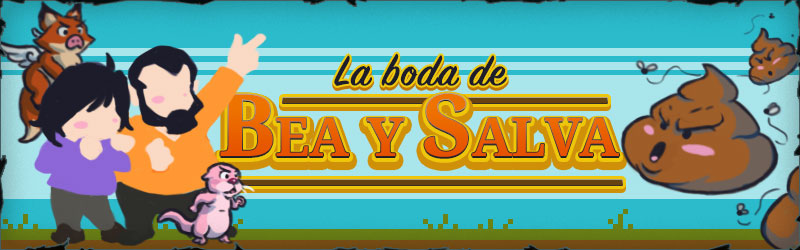
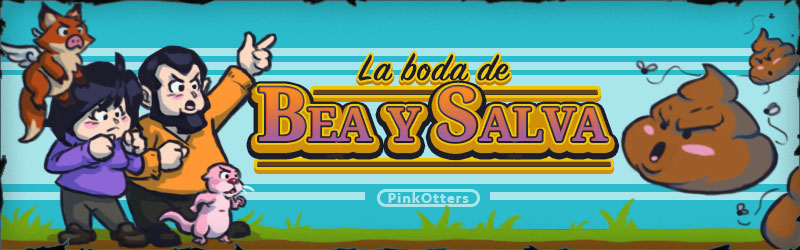
Graphics and texts iteration

diff --git a/index.html b/index.html
@@ -35,7 +35,7 @@
             <p class="weekday">SÁBADO</p>
             <p class="day">30 DE MARZO</p>
             <hr/>
-            <p class="hour">12:00 h</p>
+            <p class="hour">13:00 h</p>
           </section>
           <section class="card" data-aos="slide-left" data-aos-duration="600">
             <h2>Para los amigos</h2>
@@ -57,13 +57,14 @@
           </section>
         </section>
       </section>
+        <img class="cheat-sheet" src="imgs/cheatcode.png">
       <section>
         <section class="info-details" data-aos="slide-left">
           <div>
             <img src="imgs/housing.png">
             <div>
               <h2>Alojamiento</h2>
-              <p>Aprovechando que el evento se realiza en un hotel, los invitados
+              <p>Ya que la celebración se realiza en el hotel Emperador, los invitados
             se podrán aprovechar de un <b>descuento especial del 10%</b> en las habitaciones.
             Si estáis interesados, contactad con nosotros para más información.</p>
             </div>
@@ -76,8 +77,27 @@
               <h2>Transporte</h2>
               <p>El lugar de la celebración está en plena Gran Vía, una de las
                 principales calles del centro de Madrid. Para llegar allí, ya que el
-                centro tiene restricciones de acceso a vehículos privados sin etiqueta
-                mediambiental, aconsejamos el uso de transporte público.</p>
+                centro tiene restricciones de acceso, aconsejamos el uso de transporte público.</p>
+              <p><b>Venir en transporte público: </b>
+                <a href="https://www.crtm.es/" rel="noreferrer" target="_blank">
+                Metros, autobuses y trenes en Madrid, </a>
+                <a href="https://www.bicimad.com/" rel="noreferrer" target="_blank">
+                Alquiler de bicicletas BiciMad</a>
+              </p>
+              <p><b>Venir en taxi o VTC: </b>
+                <a href="https://mytaxi.com/es/" rel="noreferrer"
+                target="_blank"> Mytaxi, </a>
+                <a href="https://d.cabify.com/es" rel="noreferrer"
+                target="_blank">Cabify, </a>
+                <a href="https://www.uber.com/es/es-es/" rel="noreferrer"
+                target="_blank">Uber</a>
+              </p>
+              <p><b>Venir en coche: </b>
+                <a href="https://www.parkopedia.es/aparcamiento/hotel_emperador_madrid_madrid_espa%C3%B1a/?arriving=201902041900&leaving=201902042100"
+                rel="noreferrer" target="_blank">Parkings cercanos al hotel, </a>
+                <a href="https://www.madrid.es/portales/munimadrid/es/Inicio/Movilidad-y-transportes/Madrid-Central-Zona-de-Bajas-Emisiones/Preguntas-Frecuentes-Madrid-Central/Preguntas-Frecuentes-Madrid-Central/?vgnextfmt=default&vgnextoid=188495ca14f64610VgnVCM1000001d4a900aRCRD&vgnextchannel=3eae96d2742f6610VgnVCM1000001d4a900aRCRD"
+                rel="noreferrer" target="_blank">Restricciones en Madrid Central</a>
+                </p>
             </div>
           </div>
         </section>
@@ -86,9 +106,10 @@
             <img src="imgs/present.png">
             <div>
               <h2>Regalos</h2>
-              <p>No queremos ningún regalo en especial por la boda.
-              Pero si queréis regalarnos algo, ¡venid a hacernos una visita cuando estemos en New York!
-              Eso sería un regalo genial.</p>
+              <p>No queremos ningún regalo en especial por la boda. Recordad que, como tenemos
+                que mudarnos a Nueva York, no podemos llevarnos demasiadas cosas de aquí. </p>
+              <p>Pero si pese a todo, queréis regalarnos algo, podéis encontrar ideas <a href="https://www.skyscanner.es/transporte/vuelos/mad/jfk/?adults=2&children=0&adultsv2=2&childrenv2=&infants=0&cabinclass=economy&rtn=1&preferdirects=false&outboundaltsenabled=false&inboundaltsenabled=false&ref=home&oym=1902&selectedoday=04&iym=1903&selectediday=01"
+                rel="noreferrer" target="_blank">aquí (guiño, guiño)</a>.</p>
             </div>
           </div>
         </section>
@@ -97,11 +118,41 @@
             <img src="imgs/suit.png">
             <div>
               <h2>Código de vestimenta</h2>
-              <p>Nosotros preferimos que la vestimenta sea informal.
-              No detendremos a nadie que quiera ponerse de gala, pero preferimos que os encontréis
-              cómodos.</p>
-              <p>Eso sí, si queréis ayudarnos con la temática de la boda, ¡podéis añadir al traje
+              <p>No hay código de vestimenta, así que esperamos gente vestida formal y gente vestida informal.
+              No detendremos a nadie que quiera ponerse de gala, pero preferimos que os encontréis cómodos.</p>
+              <p>Eso sí, si queréis contribuir con la temática de la boda, ¡podéis añadir al traje
               <b>vuestro propio detalle de pixel art!</b></p>
+            </div>
+          </div>
+        </section>
+        <section class="info-details" data-aos="slide-left">
+          <div>
+            <img src="imgs/music.png">
+            <div>
+              <h2>Música</h2>
+              <p>Nos gustaría compartir con vosotros la música que sonará durante
+                la fiesta. Por ello, hemos creado una lista de sugerencias en Spotify
+                para que podáis añadir las canciones que os gustaría escuchar. </p>
+              <p>Podéis acceder a lista en <a href="https://open.spotify.com/user/4obothm2kmpap8iybgqlb7f1n/playlist/7GXYecUhXWZs9OnD7yhFnC?si=9fhdM0zfS9KYOCssyYNPlQ"
+                rel="noreferrer" target="_blank"> este enlace</a></p>
+              <p>Y si hay algo que no encontráis o queréis algo especial, ¡contactad
+                con nosotros!</p>
+            </div>
+          </div>
+        </section>
+        <section class="info-details" data-aos="slide-right">
+          <div>
+            <img src="imgs/madrid.png">
+            <div>
+              <h2>¡Madrid!</h2>
+              <p>Madrid es una ciudad llena de historia y de rincones para
+                disfrutar. Llena de gente de todas partes de España y del mundo, es un
+                lugar en el que todos son bienvenidos y, por esto, os animamos a que la
+                conozcáis. </p>
+              <p><a href="https://www.esmadrid.com/" rel="noreferrer" target="_blank">
+                Turismo en Madrid, </a>
+                <a href="https://unbuendiaenmadrid.com/" rel="noreferrer" target="_blank">
+                Planes en Madrid</a></p>
             </div>
           </div>
         </section>

diff --git a/styles/main.css b/styles/main.css
@@ -304,6 +304,15 @@ h1 {
   max-width: 100%;
 }
 
+.cheat-sheet {
+ margin: 0 auto;
+ display: block;
+ position: relative;
+ z-index: -1;
+ margin-top: -2rem;
+ transform: rotateZ(7deg);
+}
+
 .info-details {
   margin: 4rem auto;
   margin-left: 10%;
@@ -348,6 +357,11 @@ h1 {
 
 .info-details p {
   margin-top: 0.5rem;
+}
+
+.info-details a {
+  text-decoration: none;
+  color: rgba(38, 117, 181, 1);
 }
 
 footer {
